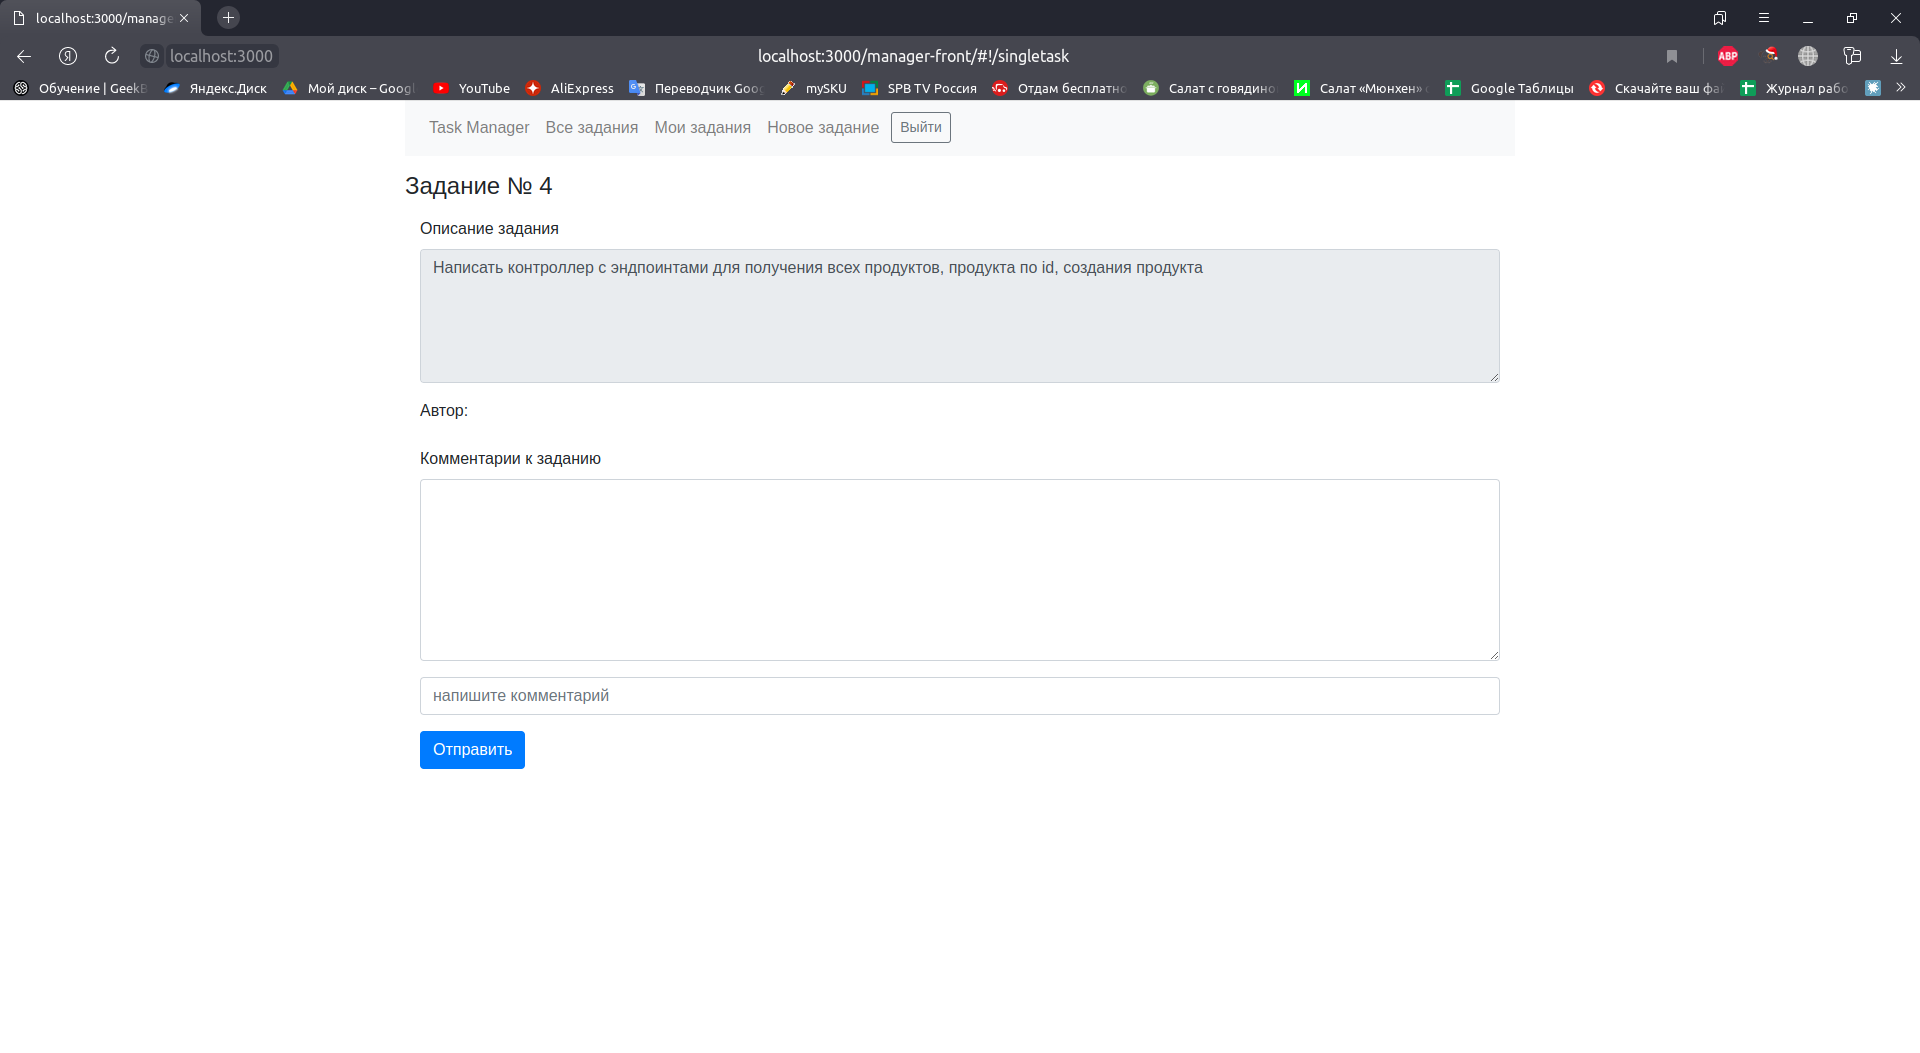
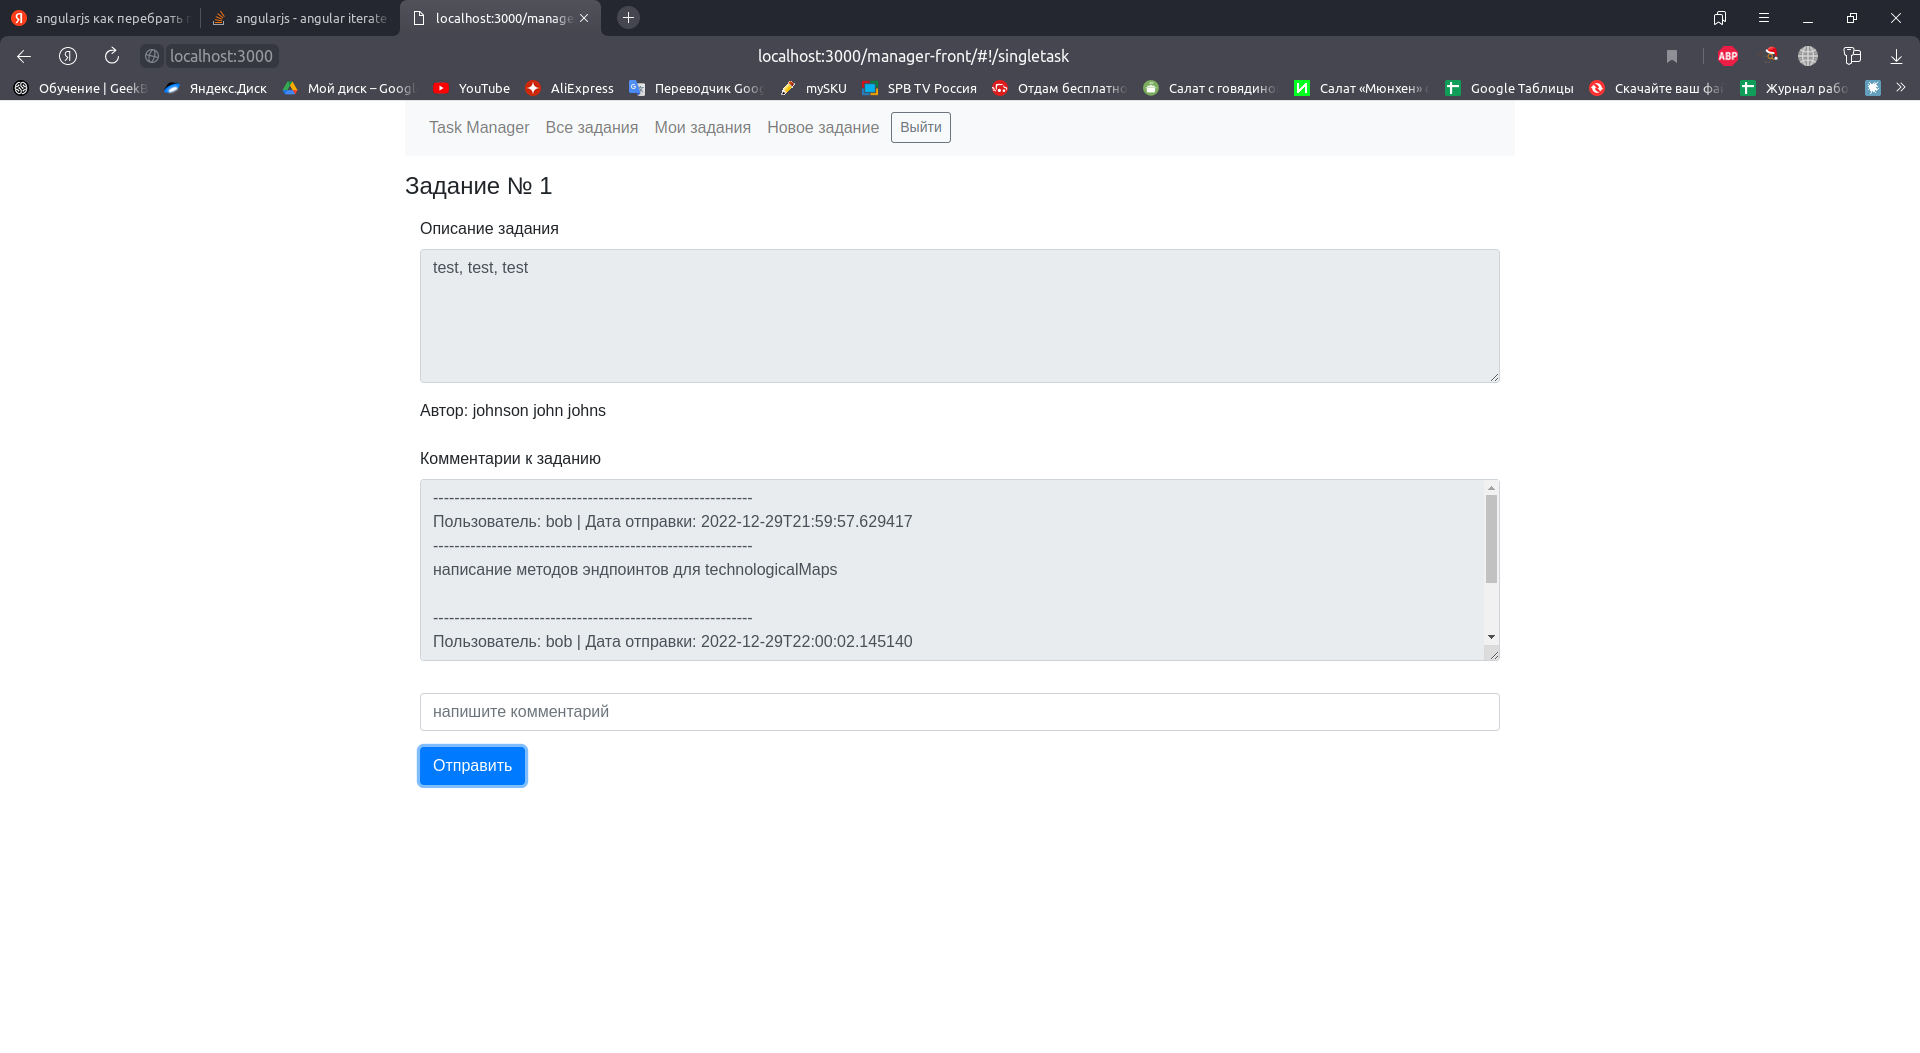
comments on front

diff --git a/managerfront/src/main/resources/static/singletask/singletask.html b/managerfront/src/main/resources/static/singletask/singletask.html
@@ -3,8 +3,6 @@
     <h4>Задание № {{singleTask.id}}</h4>
     <p></p>
     <div class="container">
-
-
         <form>
             <fieldset disabled>
                 <div class="form-group">
@@ -17,15 +15,43 @@
                 <p></p>
             </fieldset>
         </form>
-
+<!--        <div class="container">-->
+<!--            <div class="row">-->
+<!--                <div class="col-12">-->
+<!--                    <table class="table table-bordered">-->
+<!--                        <thead>-->
+<!--                        <tr>-->
+<!--                            <th scope="col">Комментарии</th>-->
+<!--                        </tr>-->
+<!--                        </thead>-->
+<!--                        <tbody>-->
+<!--                        <tr ng-repeat="с in allComments">-->
+<!--                            <td>{{mt.id}}</td>-->
+<!--                            <td>{{mt.title}}</td>-->
+<!--                            <td>{{mt.author.username}}</td>-->
+<!--                            <td>{{mt.workingHours}}</td>-->
+<!--                            <td>{{mt.planStartDate}}</td>-->
+<!--                            <td>{{mt.planEndDate}}</td>-->
+<!--                            <td>{{mt.currentStatus.status.title}}</td>-->
+<!--                            <td>-->
+<!--                                <button type="button" class="btn btn-primary btn-sm" ng-click="loadMySingleTask(mt.id)">Просмотр</i></button>-->
+<!--                            </td>-->
+<!--                        </tr>-->
+<!--                        </tbody>-->
+<!--                    </table>-->
+<!--                </div>-->
+<!--            </div>-->
+<!--        </div>-->
+<!--        -->
         <form>
-            <div class="form-group">z
+            <fieldset disabled>
+            <div class="form-group">
                 <label for="commentsArea">Комментарии к заданию</label>
-                <textarea class="form-control" id="commentsArea" rows="7"></textarea>
+                <textarea class="form-control" id="commentsArea" rows="7">{{commentsText}}</textarea>
             </div>
+            </fieldset>
             <p></p>
-
-            <input id="comment" placeholder="напишите комментарий" value="" class="form-control" ng-model="newComment" type="text"
+            <input id="comment" placeholder="напишите комментарий" value="" class="form-control" ng-model="newComment.text" type="text"
                    aria-describedby="inputGroup-sizing-sm">
             <p></p>
             <button class="btn btn-primary" ng-click="createNewComment()">Отправить</button>

diff --git a/managerfront/src/main/resources/static/singletask/singletask.js b/managerfront/src/main/resources/static/singletask/singletask.js
@@ -1,15 +1,50 @@
 angular.module('taskmanager').controller('singleTaskController', function ($scope, $http, $localStorage) {
 
-    $scope.loadSingleTask = function () {
+    $scope.loadSingleTask= function () {
             $http.get('http://localhost:5555/core/tasks/' + $localStorage.currentTaskViewId)
                 .then(function (response) {
                 $scope.singleTask = response.data;
+                $scope.loadAllComments();
             });
         };
 
     $scope.createNewComment = function () {
-
+        $scope.newComment.authorId = $scope.singleTask.id;
+        $scope.newComment.type = 'comment';
+        $scope.newComment.taskId = $scope.singleTask.id;
+        $scope.sendComment();
     }
+    $scope.sendComment = function () {
+        $http.post('http://localhost:5555/core/comments', $scope.newComment)
+            .then(function (response) {
+                $scope.loadAllComments();
+                $scope.newComment.text = '';
+            });
+    };
+
+    $scope.loadAllComments = function () {
+        $http({
+            url: 'http://localhost:5555/core/comments',
+            method: 'GET',
+            params: {
+                page: 1,
+                taskId: $scope.singleTask.id
+            }
+        })
+        .then(function (response) {
+                $scope.allComments = response.data;
+                $scope.parseAllCommentsData($scope.allComments.comments);
+            });
+    }
+
+    $scope.parseAllCommentsData = function (data) {
+        let s = '';
+        for (const item of data) {
+            s += '------------------------------------------------------------\nПользователь: ' + item.author.username + ' | Дата отправки: ' + item.createdAt + '\n------------------------------------------------------------\n' + item.text + '\n\n';
+        }
+        $scope.commentsText = s;
+    };
+
 
     $scope.loadSingleTask();
 });

diff --git a/managercore/src/main/java/ru/gb/worktaskmanager/managercore/controllers/CommentController.java b/managercore/src/main/java/ru/gb/worktaskmanager/managercore/controllers/CommentController.java
@@ -1,5 +1,6 @@
 package ru.gb.worktaskmanager.managercore.controllers;
 
+import io.swagger.v3.oas.annotations.Parameter;
 import org.springframework.beans.factory.annotation.Autowired;
 import org.springframework.data.domain.Page;
 import org.springframework.data.jpa.domain.Specification;
@@ -31,11 +32,12 @@ public class CommentController {
     }
 
     @GetMapping()
-    public CommentListResponseDto getComments(@RequestBody @Valid CommentRequestDto requestDto) {
+    public CommentListResponseDto getComments(@RequestParam (name = "page", defaultValue = "1")  @Parameter(description = "Номер страницы", required = true) Integer pageIndex,
+                                              @RequestParam (name = "taskId", defaultValue = "1")  @Parameter(description = "id пользователя", required = true) Long taskId) {
         //TODO по текущему пользователю
         //TODO описание свагера
-        Specification<Comment> specification = CommentSpecifications.build(requestDto);
-        int page = requestDto.getPage() == null ? 1 : requestDto.getPage();
+        Specification<Comment> specification = CommentSpecifications.build(taskId, pageIndex);
+        int page = pageIndex == null ? 1 : pageIndex;
         Page<Comment> taskPage = service.getComments(page, specification);
         //TODO DTO mapper
         List<CommentResponseDto> commentDtos = taskPage.getContent()

diff --git a/managercore/src/main/java/ru/gb/worktaskmanager/managercore/controllers/TaskController.java b/managercore/src/main/java/ru/gb/worktaskmanager/managercore/controllers/TaskController.java
@@ -42,11 +42,9 @@ public class TaskController {
     @GetMapping()
     public TaskListDto getTasks(@RequestParam (name = "pageIndex", defaultValue = "1")  @Parameter(description = "Номер страницы", required = true) Integer pageIndex,
                                 @RequestParam (name = "userId", defaultValue = "1")  @Parameter(description = "id пользователя", required = true) Long userId) {
-        TaskRequestDto requestDto = new TaskRequestDto();
-        requestDto.setUserId(userId);
-        requestDto.setPage(pageIndex);
-        Specification<Task> specification = TaskSpecifications.build(requestDto);
-        int page = requestDto.getPage() == null ? 1 : requestDto.getPage();
+
+        Specification<Task> specification = TaskSpecifications.build(userId, pageIndex);
+        int page = pageIndex == null ? 1 : pageIndex;
         Page<Task> taskPage = service.getTasks(page, specification);
         List<TaskDto> taskDtos = taskPage.getContent()
                 .stream()

diff --git a/managercore/src/main/java/ru/gb/worktaskmanager/managercore/repositories/specifications/CommentSpecifications.java b/managercore/src/main/java/ru/gb/worktaskmanager/managercore/repositories/specifications/CommentSpecifications.java
@@ -8,10 +8,10 @@ import ru.gb.worktaskmanager.managercore.entites.Task;
 import javax.persistence.criteria.Join;
 
 public class CommentSpecifications {
-    public static Specification<Comment> build(CommentRequestDto requestDto) {
+    public static Specification<Comment> build(Long taskId, Integer page) {
         Specification<Comment> specification = Specification.where(null);
-        if (requestDto.getTaskId() != null) {
-            specification = specification.and(CommentSpecifications.taskEqual(requestDto.getTaskId()));
+        if (taskId != null) {
+            specification = specification.and(CommentSpecifications.taskEqual(taskId));
         }
         //TODO остальные параметры фильтрации
 

diff --git a/managercore/src/main/java/ru/gb/worktaskmanager/managercore/repositories/specifications/TaskSpecifications.java b/managercore/src/main/java/ru/gb/worktaskmanager/managercore/repositories/specifications/TaskSpecifications.java
@@ -7,10 +7,10 @@ import ru.gb.worktaskmanager.managercore.entites.Task;
 import java.util.List;
 
 public class TaskSpecifications {
-    public static Specification<Task> build(TaskRequestDto requestDto) {
+    public static Specification<Task> build(Long userId, Integer page) {
         Specification<Task> specification = Specification.where(null);
-        if (requestDto.getUserId() != null) {
-            specification = specification.and(TaskSpecifications.userEqual(requestDto.getUserId()));
+        if (userId != null) {
+            specification = specification.and(TaskSpecifications.userEqual(userId));
         }
         //TODO остальные параметры фильтрации
 
